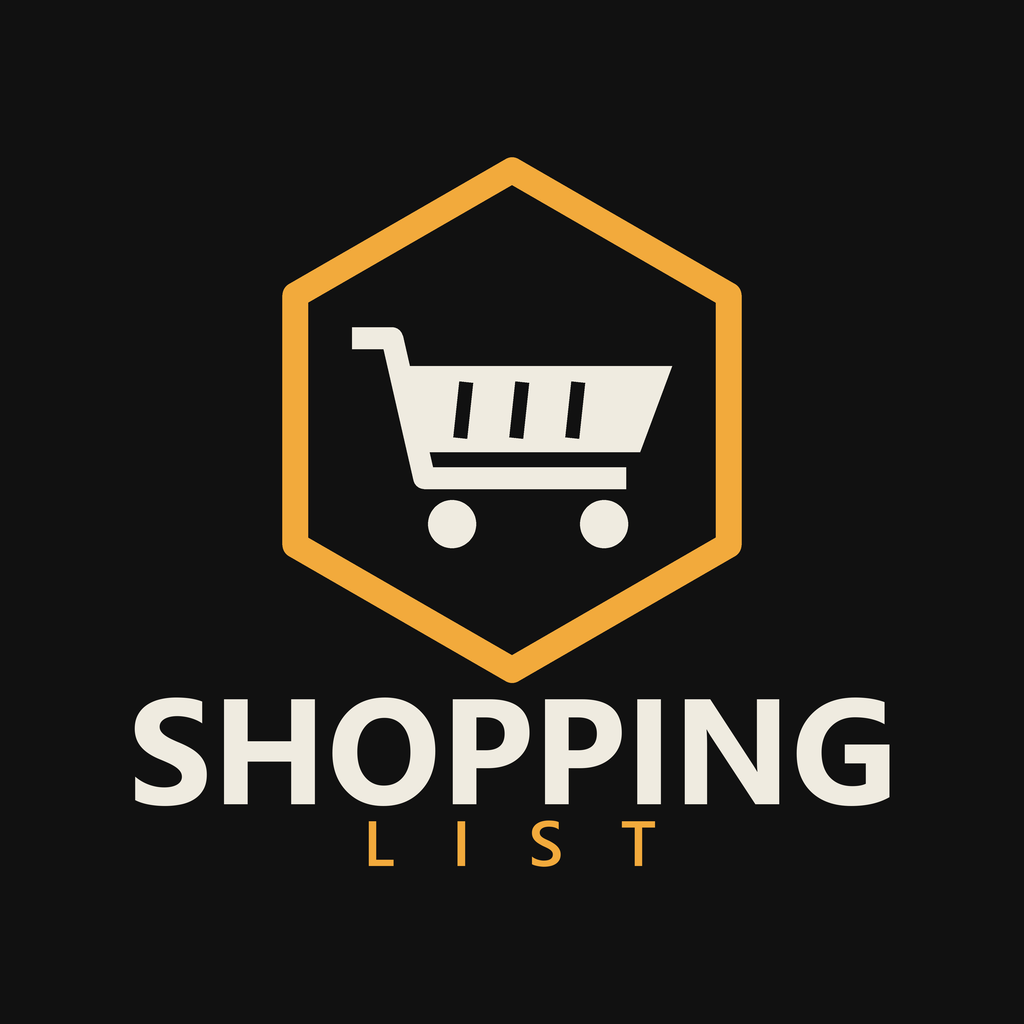
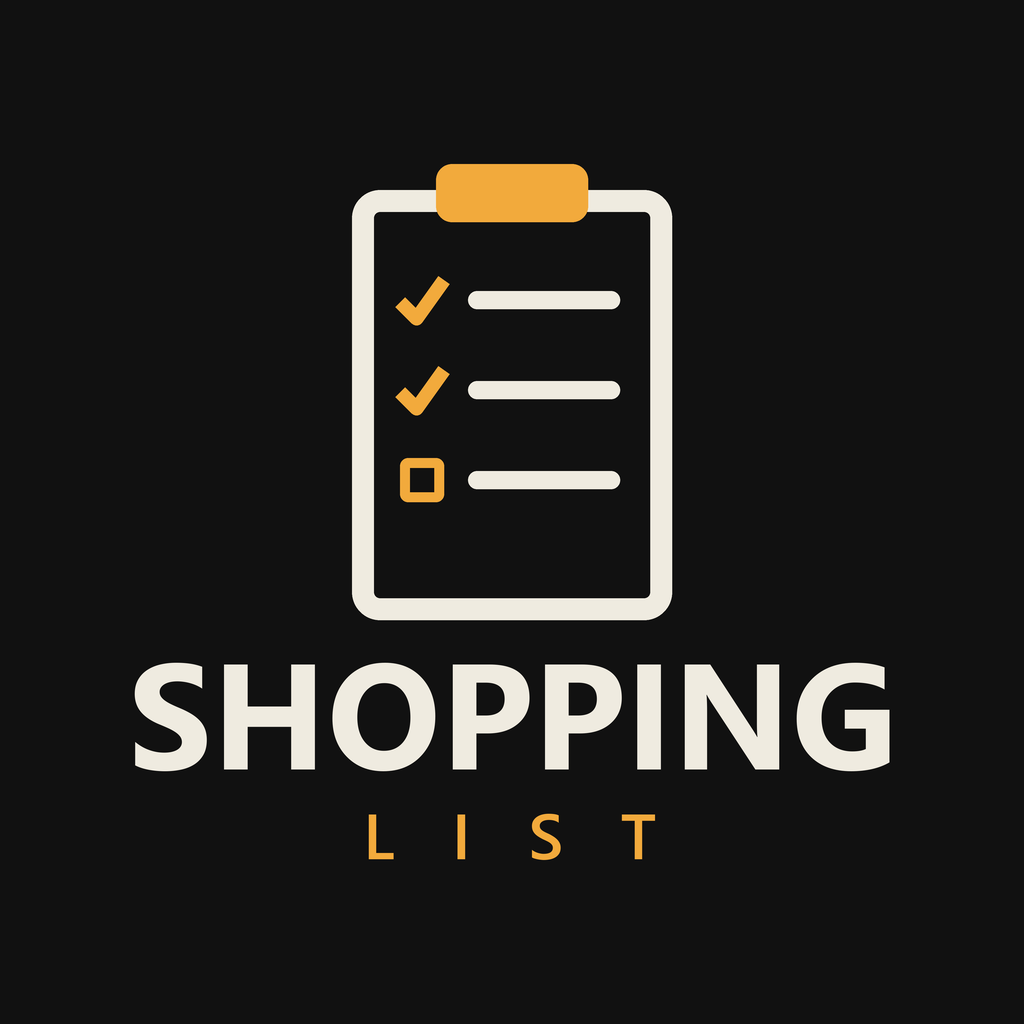
Thumbnail: clipboard, options script

Changed region(s): [[0.25, 0.1562, 0.875, 0.8438], [0.125, 0.625, 0.2812, 0.8125]]

diff --git a/tools/thumbnail.py b/tools/thumbnail.py
@@ -1,4 +1,4 @@
-"""Draws release/ShoppingList-thumbnail.png (1024x1024), same look as the Train Timer thumbnail.
+"""Draws the 1024x1024 thumbnail options into release/options/, same look as the Train Timer thumbnail.
 
 Usage: python -I tools/thumbnail.py
 """
@@ -21,27 +21,98 @@ def p(v):
     return v * S
 
 
-def main():
+def hexagon(d, cx, cy, r, width, colour=ORANGE):
+    pts = [(cx + r * math.cos(math.radians(a)), cy + r * math.sin(math.radians(a))) for a in range(-90, 270, 60)]
+    d.line(pts + [pts[0], pts[1]], fill=colour, width=width, joint="curve")
+
+
+def cart(d, ox, oy, k, colour=CREAM, slots=True):
+    """Cart drawn in a 320x210 box whose top left is (ox, oy), scaled by k."""
+    q = lambda x, y: (ox + p(x * k), oy + p(y * k))
+    d.line([q(0, 0), q(40, 0), q(72, 140), q(274, 140)], fill=colour, width=int(p(22 * k)), joint="curve")
+    d.polygon([q(48, 28), q(320, 28), q(288, 114), q(66, 114)], fill=colour)
+    if slots:
+        for x in (114, 170, 226):
+            d.line([q(x, 44), q(x - 6, 100)], fill=BG, width=int(p(14 * k)))
+    for wx in (100, 252):
+        d.ellipse([q(wx - 24, 162), q(wx + 24, 210)], fill=colour)
+
+
+def tick(d, x, y, size, colour, width):
+    d.line([(x, y + size * 0.5), (x + size * 0.38, y + size * 0.88), (x + size, y)], fill=colour, width=width, joint="curve")
+
+
+def icon_hex_cart(d):
+    hexagon(d, p(512), p(420), p(250), p(26))
+    cart(d, p(352), p(338), 1)
+
+
+def icon_cart_tick(d):
+    cart(d, p(312), p(300), 1.25)
+    d.ellipse([p(600), p(190), p(760), p(350)], fill=ORANGE)
+    tick(d, p(640), p(238), p(80), BG, p(20))
+
+
+def icon_clipboard(d):
+    d.rounded_rectangle([p(352), p(190), p(672), p(620)], radius=p(28), outline=CREAM, width=p(22))
+    d.rounded_rectangle([p(436), p(164), p(588), p(222)], radius=p(16), fill=ORANGE)
+    for i, y in enumerate((p(300), p(390), p(480))):
+        if i < 2:
+            tick(d, p(400), y - p(20), p(44), ORANGE, p(14))
+        else:
+            d.rounded_rectangle([p(400), y - p(22), p(444), y + p(22)], radius=p(8), outline=ORANGE, width=p(10))
+        d.rounded_rectangle([p(468), y - p(9), p(620), y + p(9)], radius=p(9), fill=CREAM)
+
+
+def icon_bag(d):
+    hexagon(d, p(512), p(420), p(250), p(26))
+    d.arc([p(442), p(250), p(582), p(390)], 180, 360, fill=CREAM, width=p(22))
+    d.rounded_rectangle([p(392), p(320), p(632), p(560)], radius=p(26), fill=CREAM)
+    for hx in (p(452), p(572)):
+        d.ellipse([hx - p(12), p(352), hx + p(12), p(376)], fill=BG)
+    tick(d, p(458), p(420), p(108), ORANGE, p(22))
+
+
+def icon_crate_tag(d):
+    d.rounded_rectangle([p(332), p(310), p(642), p(600)], radius=p(16), outline=CREAM, width=p(22))
+    d.line([p(332), p(410), p(642), p(410)], fill=CREAM, width=p(18))
+    d.line([p(342), p(590), p(632), p(420)], fill=CREAM, width=p(18))
+    tag = Image.new("RGBA", (p(300), p(300)), (0, 0, 0, 0))
+    td = ImageDraw.Draw(tag)
+    td.polygon([(p(60), p(110)), (p(110), p(60)), (p(250), p(60)), (p(250), p(160)), (p(110), p(160))], fill=ORANGE)
+    td.ellipse([p(100), p(98), p(124), p(122)], fill=BG)
+    tag = tag.rotate(-30, resample=Image.BICUBIC)
+    return tag, (p(520), p(150))
+
+
+def icon_cart_list(d):
+    hexagon(d, p(512), p(420), p(250), p(26))
+    cart(d, p(372), p(398), 0.85, slots=False)
+    for i, y in enumerate((p(270), p(318))):
+        d.rounded_rectangle([p(430), y - p(9), p(600 - i * 50), y + p(9)], radius=p(9), fill=ORANGE)
+
+
+OPTIONS = {
+    "A-hex-cart": icon_hex_cart,
+    "B-cart-tick": icon_cart_tick,
+    "C-clipboard": icon_clipboard,
+    "D-bag-hex": icon_bag,
+    "E-crate-tag": icon_crate_tag,
+    "F-hex-cart-list": icon_cart_list,
+}
+
+
+def render(draw_icon, out):
     img = Image.new("RGB", (W, W), BG)
     d = ImageDraw.Draw(img)
+    extra = draw_icon(d)
+    if extra:
+        layer, pos = extra
+        img.paste(layer, pos, layer)
 
-    # the hideout's hexagon, pointy top like the area icons
-    cx, cy, r = p(512), p(420), p(250)
-    hexagon = [(cx + r * math.cos(math.radians(a)), cy + r * math.sin(math.radians(a))) for a in range(-90, 270, 60)]
-    d.line(hexagon + [hexagon[0], hexagon[1]], fill=ORANGE, width=p(26), joint="curve")
-
-    # shopping cart: handle, basket with slots, wheels
-    line = p(22)
-    d.line([(p(352), p(338)), (p(392), p(338)), (p(424), p(478)), (p(626), p(478))], fill=CREAM, width=line, joint="curve")
-    d.polygon([(p(400), p(366)), (p(672), p(366)), (p(640), p(452)), (p(418), p(452))], fill=CREAM)
-    for x in (p(466), p(522), p(578)):
-        d.line([(x, p(382)), (x - p(6), p(438))], fill=BG, width=p(14))
-    for wx in (p(452), p(604)):
-        d.ellipse([wx - p(24), p(500), wx + p(24), p(548)], fill=CREAM)
-
+    # title and subtitle are centred by their visible ink, since glyph boxes include side bearings
     def paste_centred(layer, y_top):
-        box = layer.getbbox()
-        piece = layer.crop(box)
+        piece = layer.crop(layer.getbbox())
         img.paste(piece, (int(W / 2 - piece.width / 2), int(y_top)), piece)
 
     def line_layer(parts, spacing):
@@ -55,10 +126,8 @@ def main():
             x += ld.textlength(ch, font=font) + spacing
         return layer
 
-    title_font = ImageFont.truetype(FONT_BOLD, p(150))
-    title_layer = line_layer([(ch, title_font, CREAM) for ch in "SHOPPING"], 0)
-    sub_font = ImageFont.truetype(FONT_SEMI, p(64))
-    sub_layer = line_layer([(ch, sub_font, ORANGE) for ch in "LIST"], p(64) * 0.9)
+    title_layer = line_layer([(ch, ImageFont.truetype(FONT_BOLD, p(150)), CREAM) for ch in "SHOPPING"], 0)
+    sub_layer = line_layer([(ch, ImageFont.truetype(FONT_SEMI, p(64)), ORANGE) for ch in "LIST"], p(64) * 0.9)
 
     # one gap between icon, title and subtitle, chosen so the top and bottom margins match
     icon_box = ImageChops.difference(img, Image.new("RGB", img.size, BG)).getbbox()
@@ -68,11 +137,27 @@ def main():
     title_top = icon_box[3] + gap
     paste_centred(title_layer, title_top)
     paste_centred(sub_layer, title_top + title_h + gap)
+    img = img.resize((1024, 1024), Image.LANCZOS)
+    img.save(out, optimize=True)
+    return img
 
-    out = ROOT / "release" / "ShoppingList-thumbnail.png"
-    out.parent.mkdir(exist_ok=True)
-    img.resize((1024, 1024), Image.LANCZOS).save(out, optimize=True)
-    print(out)
+
+def main():
+    folder = ROOT / "release" / "options"
+    folder.mkdir(parents=True, exist_ok=True)
+    images = [(name, render(fn, folder / f"ShoppingList-thumbnail-{name}.png")) for name, fn in OPTIONS.items()]
+
+    # contact sheet to compare them side by side
+    cell = 340
+    sheet = Image.new("RGB", (cell * 3 + 40, (cell + 40) * 2 + 20), (30, 30, 30))
+    sd = ImageDraw.Draw(sheet)
+    label_font = ImageFont.truetype(FONT_SEMI, 22)
+    for i, (name, im) in enumerate(images):
+        x, y = 10 + (i % 3) * (cell + 10), 10 + (i // 3) * (cell + 40)
+        sheet.paste(im.resize((cell, cell), Image.LANCZOS), (x, y))
+        sd.text((x + 4, y + cell + 6), name, font=label_font, fill=CREAM)
+    sheet.save(folder / "options.png")
+    print(folder)
 
 
 if __name__ == "__main__":
